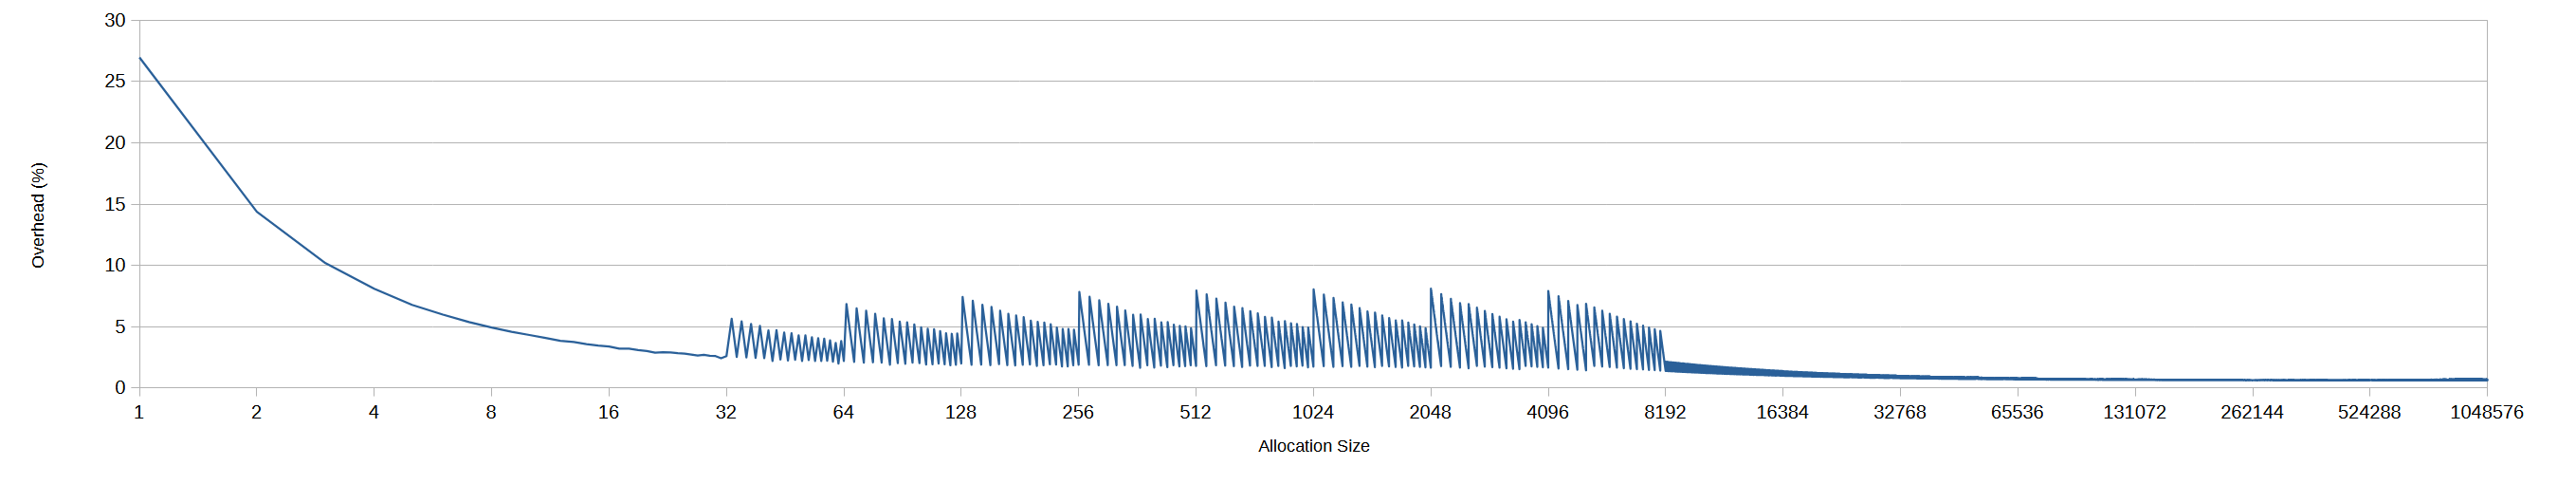
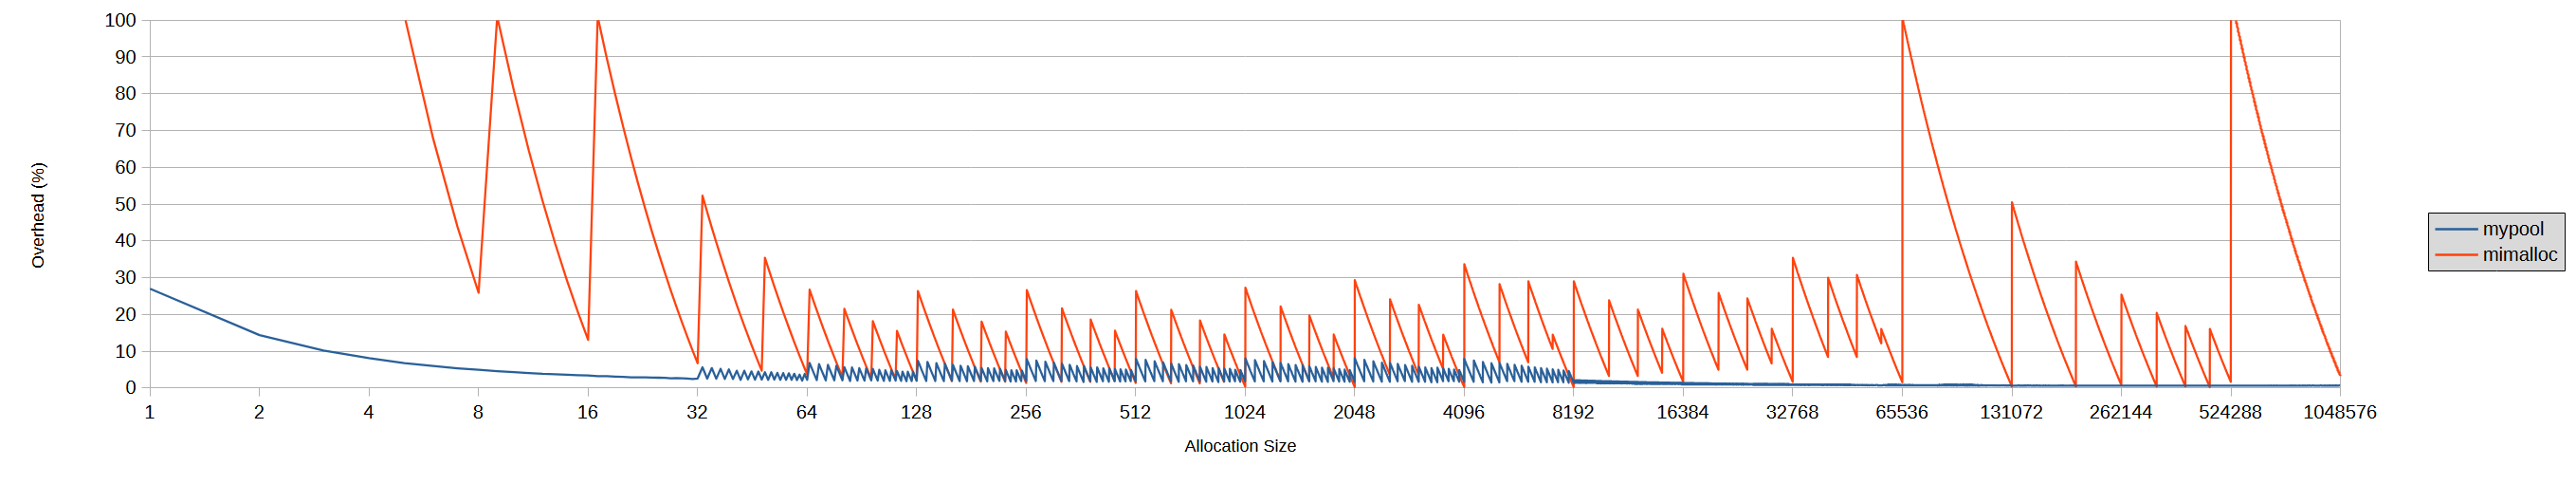
CLI and mimalloc for testing

diff --git a/memorypool.cpp b/memorypool.cpp
@@ -16,17 +16,14 @@ with this file, You can obtain one at http://mozilla.org/MPL/2.0/.
 #include <format>
 #include <cmath>
 #include <algorithm>
+#include <string>
+#include <random>
 
 #include "memorypool.h"
+#include "lib/mimalloc/include/mimalloc.h"
+#include "lib/mimalloc/include/mimalloc-stats.h"
 
-const size_t NUMBER_THREADS = 1;// std::thread::hardware_concurrency();
-const size_t MAX_ALLOCATED_CHUNKS = 4096;  // Per thread
-const size_t MAX_CHUNK_SIZE = 1 << 20;
-const size_t POOL_SIZE = MAX_ALLOCATED_CHUNKS * MAX_CHUNK_SIZE * NUMBER_THREADS;
-const bool SKIP_BUFFER_CHECK = false;  // If true do not check if the buffer was overwritten. Useful for testing allocation speed.
-const int ALLOC_SIZE_POWER = 1;
-
-struct StdAllocMemoryPool
+struct StdNewAllocator
 {
 	void* allocate(size_t count) {
 		return (void*)(new char[count]);
@@ -37,107 +34,249 @@ struct StdAllocMemoryPool
 	size_t get_internal_allocated_memory() {
 		return 0;
 	}
-	void restart(size_t, bool) {}
+	void restart(size_t) {}
 };
 
-uint64_t random(uint64_t* value) {
-	*value ^= *value >> 33;
-	*value *= 0xff51afd7ed558ccd;
-	*value += 0xc4ceb9fe1a85ec53;
-	return *value;
-}
-
-mempool::variablepool::VariableMemoryPool<std::mutex> memoryPool = mempool::variablepool::VariableMemoryPool<std::mutex>(POOL_SIZE, false);
-//StdAllocMemoryPool memoryPool = StdAllocMemoryPool();
-std::atomic_uint64_t totalAllocations;
-
-size_t find_maximum_allocation(size_t blockSize) 
+struct MimallocAllocator
 {
-	size_t allocations = 0;
-	while (true) {
-		try {
-			memoryPool.allocate(blockSize);
-			allocations += 1;
+	void* allocate(size_t count) {
+		return mi_malloc(count);
+	}
+	void free(void* ptr) {
+		mi_free(ptr);
+	}
+	size_t get_internal_allocated_memory() {
+		mi_stats_t_decl(stats);
+		mi_stats_merge();
+		mi_stats_get(&stats);
+		return stats.committed.current;
+	}
+	void restart(size_t) {
+		mi_collect(true);  // Return all memory to OS
+	}
+};
+
+template<class Allocator>
+void test_overhead(Allocator* allocator, std::string name, std::vector<std::string>* results, size_t poolSize) 
+{
+	std::vector<void*> pointers;
+	pointers.reserve(poolSize);
+
+	for (int i = (1 << 0); i <= (1 << 20); i++) {
+		// Don't test all values, otherwise this will take forever
+		int log = log2(i);
+		if (log >= 11 && (i & (1 << log - 11) - 1) != 0)
+			continue;
+		allocator->restart(poolSize);
+
+		size_t allocations = 0;
+		size_t internalSize = 0;  // Internal size of memory pool/allocator, to calculate overhead
+		while (true) {
+			try {
+				pointers.push_back(allocator->allocate(i));
+				memset(pointers.back(), 0, i);
+				allocations += 1;
+
+				if (name == "mimalloc") {
+					size_t committed = allocator->get_internal_allocated_memory();
+					// Last allocation pushed the internally used memory above the target
+					if (committed > poolSize) {
+						allocations -= 1;
+						break;
+					}
+					internalSize = committed;
+				}
+			}
+			// mypool throws std::bad_alloc when its full
+			catch (std::bad_alloc& e) {
+				internalSize = allocator->get_internal_allocated_memory();
+				break;
+			}
 		}
-		catch (std::bad_alloc& e) {
-			return allocations;
-		}
+
+		float overhead = (float)internalSize / (allocations * i) - 1;
+		std::cout << "\nBlock: " << i << ", Total allocations : " << allocations << ", Overhead : " << overhead;
+		results->push_back(std::format("{},{}", i, overhead));
+
+		for (void* ptr : pointers)
+			allocator->free(ptr);
+		pointers.clear();
 	}
 }
 
-size_t calculate_total_allocated(size_t* allocatedSizes)
+template<class Allocator>
+void test_thread(Allocator* allocator, std::atomic_uint64_t* totalAllocations, size_t maxAllocations, 
+	size_t maxAllocationSize, float allocationDistribution, uint32_t seed, bool skipCheck)
 {
-	size_t result = 0;
-	for (int i = 0; i < MAX_ALLOCATED_CHUNKS; i++)
-		result += allocatedSizes[i];
-	return result;
-}
+	uint8_t** allocatedChunks = new uint8_t*[maxAllocations];
+	memset(allocatedChunks, 0, sizeof(uint8_t*) * maxAllocations);
+	size_t* allocatedSizes = new size_t[maxAllocations];
+	memset(allocatedSizes, 0, sizeof(size_t) * maxAllocations);
 
-size_t scale_chunk_size(size_t size, int power)
-{
-	size_t result = size;
-	for (int i = 1; i < power; i++)
-		result = (result * size) / MAX_CHUNK_SIZE;
-	return std::max(result, (size_t)1);
-}
-
-void testing_thread(int id) 
-{
-	uint8_t* allocatedChunks[MAX_ALLOCATED_CHUNKS];
-	memset(allocatedChunks, 0, sizeof(uint8_t*) * MAX_ALLOCATED_CHUNKS);
-	size_t allocatedSizes[MAX_ALLOCATED_CHUNKS];
-	memset(allocatedSizes, 0, sizeof(size_t) * MAX_ALLOCATED_CHUNKS);
-	uint64_t seed = id;
+	std::mt19937 generator(seed);
+	std::uniform_int_distribution<> indexDistribution(0, maxAllocations - 1);
+	std::uniform_int_distribution<> uniformDistribution(1, maxAllocationSize);
+	std::exponential_distribution<> exponentialDistribution(allocationDistribution);
 
 	while (true) {
-		uint64_t chunkIdx = random(&seed) % MAX_ALLOCATED_CHUNKS;
-		if (allocatedChunks[chunkIdx]) {
-			//std::cout << "\nDealloc" << std::flush;
-			if (!SKIP_BUFFER_CHECK) {
+		uint64_t chunkIdx = indexDistribution(generator);
+		if (allocatedChunks[chunkIdx]) 
+		{
+			if (!skipCheck) {
 				size_t expectedID = 1 + chunkIdx % 255;
 				size_t count = std::count(allocatedChunks[chunkIdx], allocatedChunks[chunkIdx] + allocatedSizes[chunkIdx], expectedID);
 				if (count != allocatedSizes[chunkIdx]) {
-					std::cout << "\nERROR: out of bounds write detected, ID " << expectedID;
+					std::cout << "\nERROR: out of bounds write detected";
 					exit(-1);
 				}
 				memset(allocatedChunks[chunkIdx], 0, allocatedSizes[chunkIdx]);
 			}
-
-			memoryPool.free(allocatedChunks[chunkIdx]);
+			allocator->free(allocatedChunks[chunkIdx]);
 			allocatedChunks[chunkIdx] = nullptr;
 			allocatedSizes[chunkIdx] = 0;
 		}
-		else {
-			//std::cout << "\nAlloc" << std::flush;
-			uint64_t chunkSize = random(&seed) % MAX_CHUNK_SIZE + 1;
-			chunkSize = scale_chunk_size(chunkSize, ALLOC_SIZE_POWER);
-			uint8_t* ptr = (uint8_t*)memoryPool.allocate(chunkSize);
+		else 
+		{
+			uint64_t chunkSize;
+			if (allocationDistribution == 0)
+				chunkSize = uniformDistribution(generator);
+			else
+				chunkSize = (size_t)std::min(exponentialDistribution(generator), (double)maxAllocationSize);
+			uint8_t* ptr;
+			try {
+				ptr = (uint8_t*)allocator->allocate(chunkSize);
+			}
+			catch (std::bad_alloc& e) {
+				std::cout << "\nERROR: std::bad_alloc";
+				exit(-1);
+			}
 			allocatedChunks[chunkIdx] = ptr;
 			allocatedSizes[chunkIdx] = chunkSize;
-			
-			if (!SKIP_BUFFER_CHECK)
+			if (!skipCheck)
 				memset(ptr, 1 + chunkIdx % 255, chunkSize);
 		}
-		//std::cout << "\nIteration" << std::flush;
-		totalAllocations.fetch_add(1);
+
+		totalAllocations->fetch_add(1);
 	}
 }
 
-int main()
+int main(int argc, char* argv[])
 {
-	if (0) {
-		std::cout << "\nMemory used by pool: " << memoryPool.get_internal_allocated_memory();
+	if (argc < 3) {
+		std::cout << "Usage: memorypool [OPTIONS...] [TEST_TYPE] [ALLOCATOR]" << "\n";
+		std::cout << "Allocators" << "\n";
+		std::cout << "stdnew: use new[] and delete[]." << "\n";
+		std::cout << "mimalloc: use Microsofts mimalloc library." << "\n";
+		std::cout << "mypool: use the memory pool in this library." << "\n";
+		std::cout << "Test types" << "\n";
+		std::cout << "overhead: calculate memory overhead for different allocation sizes. Outputs results to overhead.csv. Only implemented for mypool." << "\n";
+		std::cout << "fuzz: test that the allocator works correctly." << "\n";
+		std::cout << "benchmark: test number of allocation and deallocations in 10 seconds." << "\n";
+		std::cout << "Options" << "\n";
+		std::cout << "-t: number of threads. Default 1." << "\n";
+		std::cout << "-d: allocation sizes follow an exponential distribution. This sets the constant. Default 0 (uniform)." << "\n";
+		std::cout << "-a: maximum allocation size in bytes. Default 100000." << "\n";
+		std::cout << "-c: maximum number of allocations. Default 2048." << "\n";
+		std::cout << "-p: size of the pool. Default 250000000." << "\n";
+		std::cout << "-s: seed for random number generator. Default random." << "\n";
+		exit(0);
+	}
 
+	std::string test = argv[argc - 2];
+	std::string allocator = argv[argc - 1];
+	size_t threadCount = 1;
+	size_t maxAllocationSize = 100000;
+	size_t maxAllocations = 2048;
+	float allocationDistribution = 0;
+	size_t poolSize = 250000000;
+	uint32_t seed = -1;
+
+	for (int i = 1; i < argc - 2; i += 2) {
+		if (argv[i][1] == 't')
+			threadCount = std::stoi(argv[i + 1]);
+		else if (argv[i][1] == 'd')
+			allocationDistribution = std::stof(argv[i + 1]);
+		else if (argv[i][1] == 'a')
+			maxAllocationSize = std::stoll(argv[i + 1]);
+		else if (argv[i][1] == 'c')
+			maxAllocations = std::stoll(argv[i + 1]);
+		else if (argv[i][1] == 'p')
+			poolSize = std::stoll(argv[i + 1]);
+		else if (argv[i][1] == 's')
+			seed = std::stoi(argv[i + 1]);
+		else {
+			std::cout << "\nUnknown option " << argv[i];
+			exit(0);
+		}
+	}
+
+	if (seed == (uint32_t)-1) {
+		std::random_device device;
+		seed = device();
+	}
+	std::cout << "\nUsing seed " << seed;
+
+	if (test == "fuzz" || test == "benchmark") 
+	{
+		bool skipCheck = test == "benchmark";
+		std::thread* threads = new std::thread[threadCount];
+		std::atomic_uint64_t totalAllocations = 0;
+
+		StdNewAllocator stdNewAllocator = StdNewAllocator();
+		MimallocAllocator mimallocAllocator = MimallocAllocator();
+		mempool::variablepool::VariableMemoryPool<std::mutex> mypoolAllocator = mempool::variablepool::VariableMemoryPool<std::mutex>();
+
+		if (allocator == "stdnew") {
+			for (int i = 0; i < threadCount; i++) 
+				threads[i] = std::thread(test_thread<StdNewAllocator>, &stdNewAllocator, &totalAllocations,
+					maxAllocations, maxAllocationSize, allocationDistribution, seed, skipCheck);
+		}
+		else if (allocator == "mimalloc") {
+			for (int i = 0; i < threadCount; i++)
+				threads[i] = std::thread(test_thread<MimallocAllocator>, &mimallocAllocator, &totalAllocations,
+					maxAllocations, maxAllocationSize, allocationDistribution, seed, skipCheck);
+		}
+		else if (allocator == "mypool") {
+			mypoolAllocator.restart(poolSize);
+			for (int i = 0; i < threadCount; i++)
+				threads[i] = std::thread(test_thread<mempool::variablepool::VariableMemoryPool<std::mutex>>, &mypoolAllocator,
+					&totalAllocations, maxAllocations, maxAllocationSize, allocationDistribution, seed, skipCheck);
+		}
+		else {
+			std::cout << "\nUnkown allocator " << allocator;
+			exit(0);
+		}
+
+		std::cout << "\n";
+		auto startTime = std::chrono::high_resolution_clock::now();
+		
+		while (true) {
+			std::this_thread::sleep_for(std::chrono::seconds(1));
+			auto currentTime = std::chrono::high_resolution_clock::now();
+			auto elapsed = (currentTime - startTime).count() / 1e9;
+			std::cout << std::string(100, '\b');
+			std::cout << "Elapsed " << elapsed << "s | Allocations: " << (float)totalAllocations.load() / elapsed << "/s" << "        ";
+			if (test == "benchmark" && elapsed > 10)
+				break;
+		}
+		exit(0);
+	}
+	else if (test == "overhead")
+	{
 		std::vector<std::string> results;
-		for (int i = (1 << 0); i <= (1 << 20); i++) { 
-			int log = log2(i);
-			if (log >= 12 && (i & (1 << log - 12) - 1) != 0)
-				continue;
-			memoryPool.restart(POOL_SIZE, false);
-			size_t allocations = find_maximum_allocation(i);
-			float overhead = (float)memoryPool.get_internal_allocated_memory() / (allocations * i) - 1;
-			std::cout << "\nBlock: " << i << ", Total allocations : " << allocations << ", Overhead : " << overhead;
-			results.push_back(std::format("{},{}", i, overhead));
+		mempool::variablepool::VariableMemoryPool<std::mutex> mypoolAllocator = mempool::variablepool::VariableMemoryPool<std::mutex>();
+		MimallocAllocator mimallocAllocator = MimallocAllocator();
+
+		if (allocator == "mypool") {
+			mypoolAllocator.restart(poolSize);
+			std::cout << "\nMemory used by pool: " << mypoolAllocator.get_internal_allocated_memory();
+			test_overhead<mempool::variablepool::VariableMemoryPool<std::mutex>>(&mypoolAllocator, allocator, &results, poolSize);
+		}
+		else if (allocator == "mimalloc")
+			test_overhead<MimallocAllocator>(&mimallocAllocator, allocator, &results, poolSize);
+		else {
+			std::cout << "\nUnimplemented allocator " << allocator;
+			exit(0);
 		}
 
 		std::fstream resultFile = std::fstream("overhead.csv", std::fstream::out);
@@ -147,19 +286,8 @@ int main()
 		resultFile.close();
 		exit(0);
 	}
-
-	if (1) {
-		
-		std::thread* threads = new std::thread[NUMBER_THREADS];
-		for (int i = 0; i < NUMBER_THREADS; i++)
-			threads[i] = std::thread(testing_thread, i);
-
-		while (true) {
-			auto startTime = std::chrono::high_resolution_clock::now();
-			totalAllocations.store(0);
-			std::this_thread::sleep_for(std::chrono::seconds(1));
-			auto currentTime = std::chrono::high_resolution_clock::now();
-			std::cout << "\nAllocations: " << (float)totalAllocations.load() / (currentTime - startTime).count() * 1e9 << "/s";
-		}
+	else {
+		std::cout << "\nUnkown test type " << test;
+		exit(0);
 	}
 }

diff --git a/README.md b/README.md
@@ -29,6 +29,20 @@ The pool is composed of blocks of 64 bytes. It has 2 different allocation mechan
 The overhead varies depending on the size of the allocation, but is generally low.
 ![](overhead.png)
 
+> mimalloc has really high overhead spikes at sizes 64KiB and 512KiB. I am not sure if this is really how it works or if its a configuration issue on my side.
+
+It has decent allocation throughput in single threaded environments. The following tests were done using:
+- Visual Studio 2026
+- Windows 11
+- Ryzen 6900HX@3.3GHz.
+
+The following commands were used:
+- Small allocations: `memorypool -s 42 -d 1e-2 -a 1000000 -p 1000000000 benchmark mimalloc`
+- Mixed allocations: `memorypool -s 42 -d 1e-5 -a 1000000 -p 1000000000 benchmark mimalloc`
+- Large allocations: `memorypool -s 42 -d 0 -a 1000000 -p 1000000000 benchmark mimalloc`
+
+![](throughput.png)
+
 ## Libraries
 
 B-tree from [parallel-hashmap](https://github.com/greg7mdp/parallel-hashmap) by Gregory Popovitch 